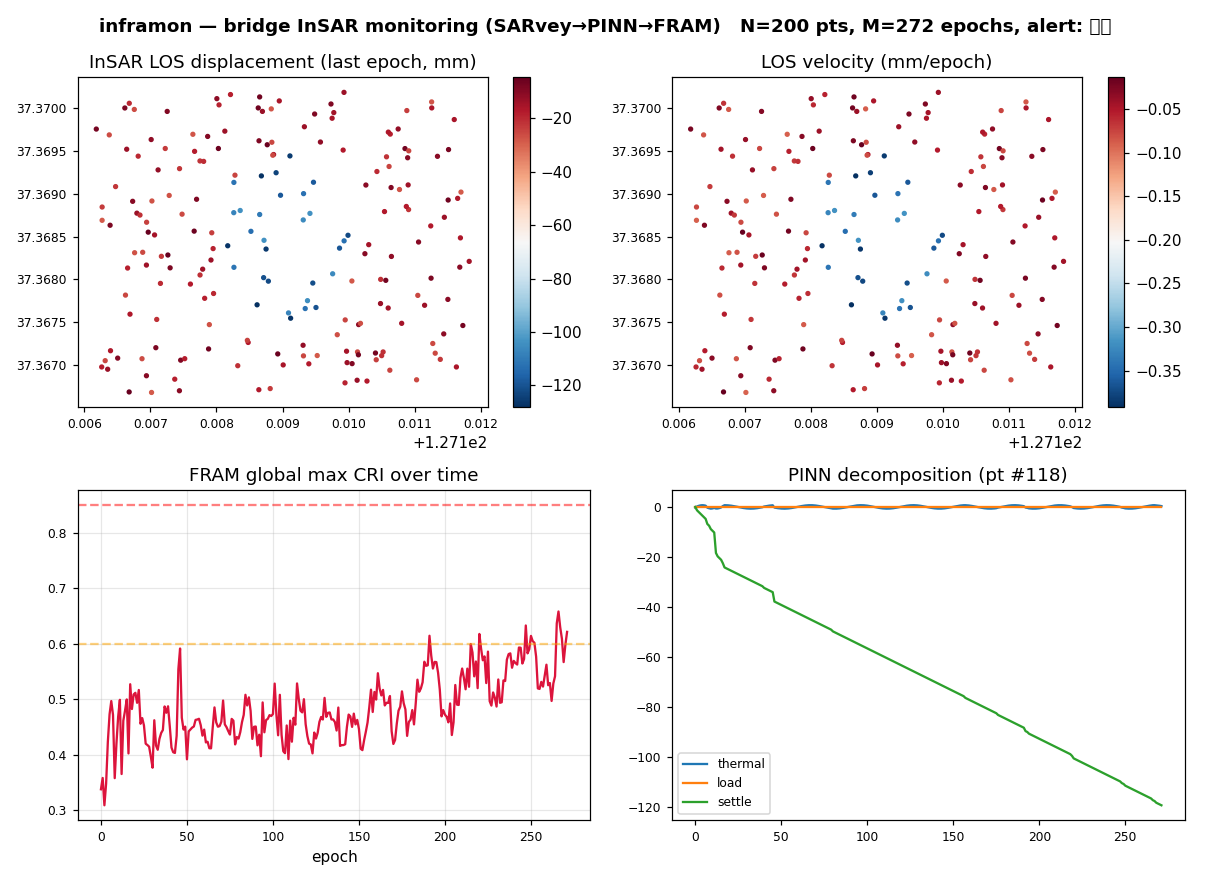
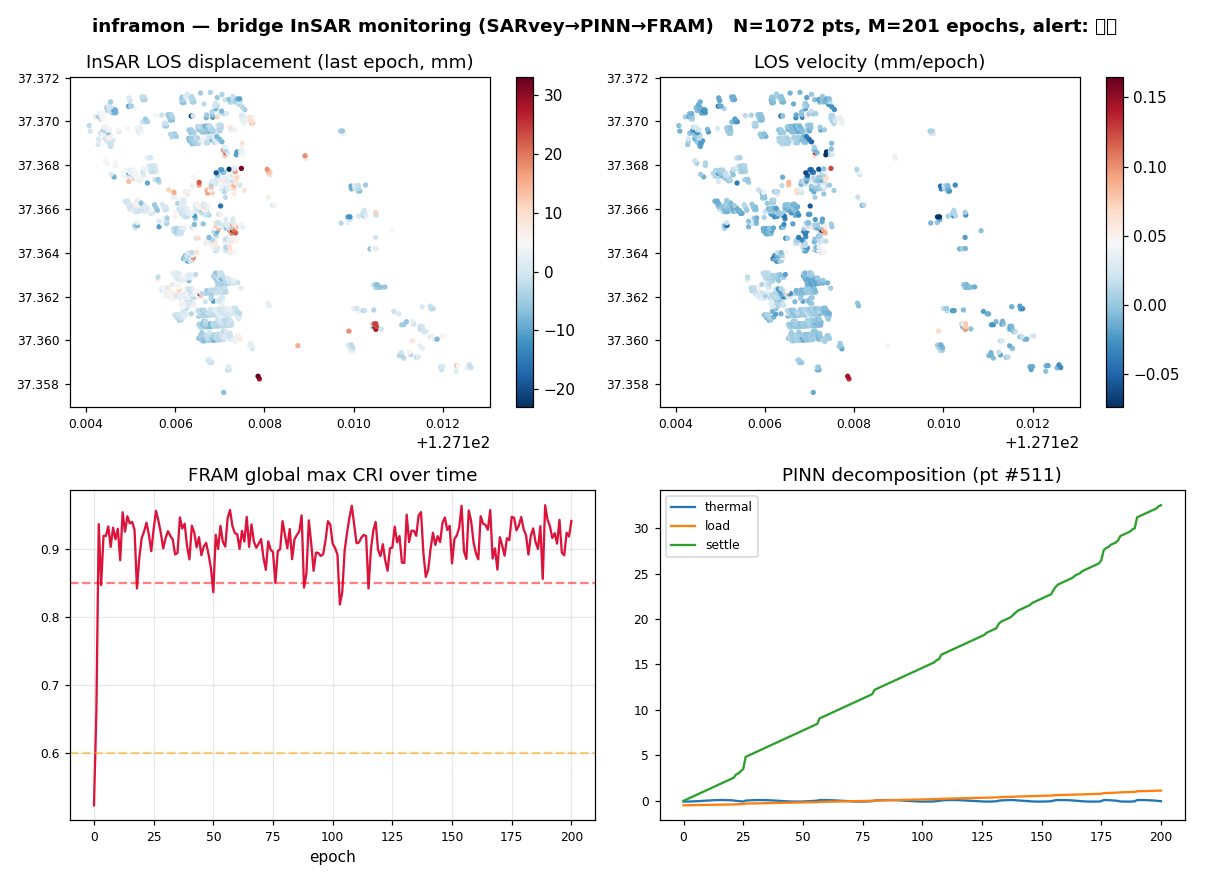
risk map 을 OpenStreetMap 베이스맵 위에 표시 (contextily)
- demo GIF·velocity·overview 를 OSM 타일 위 위험점으로 재생성 → 어디가 위험한지 지리적으로 표시
- GIF 제목/캡션 명확화(FRAM collapse prob. on OSM, 검증된 진단 아님 명시)
- 좌표 4326→3857 재투영 + contextily OSM Mapnik

diff --git a/docs/index.html b/docs/index.html
@@ -64,8 +64,10 @@
   <section>
     <h2>미리보기</h2>
     <p class="mut">정자교 실 Sentinel-1 데이터를 다운로드→ISCE2 코레지→MiaplPy→SARvey→PINN→FRAM 으로 처리한 실제 산출.</p>
-    <img class="demo" src="img/demo.gif" alt="위험 시간변화 데모">
-    <img class="demo" src="img/overview.png" alt="결과 요약: 변위·속도·CRI·PINN 성분분해">
+    <img class="demo" src="img/demo.gif" alt="OSM 지도 위 FRAM 붕괴확률 위험맵(시간 애니메이션)">
+    <p class="mut">FRAM 붕괴확률(isotonic)을 <b>OpenStreetMap 지도 위</b> 측정점별로 표시, 2017–2025 시간 애니메이션(🟢낮음→🔴높음). FRAM 산출값이며 검증된 진단 아님.</p>
+    <img class="demo" src="img/velocity_map.png" alt="OSM 지도 위 LOS 속도">
+    <img class="demo" src="img/overview.png" alt="결과 요약">
   </section>
 
   <section>

diff --git a/scripts/make_readme_media.py b/scripts/make_readme_media.py
@@ -28,6 +28,26 @@ lon, lat = xyz[:, 0], xyz[:, 1]
 N, M = los.shape
 level = fm.get("warning", {}).get("level", "-")
 
+# OSM 베이스맵용: 경위도(4326) → 웹메르카토르(3857)
+import contextily as ctx
+from pyproj import Transformer
+_tf = Transformer.from_crs("EPSG:4326", "EPSG:3857", always_xy=True)
+mx, my = _tf.transform(lon, lat)
+_padx = (mx.max() - mx.min()) * 0.18 + 60
+_pady = (my.max() - my.min()) * 0.18 + 60
+
+
+def _basemap(ax):
+    """현재 축(3857 좌표)에 OSM 타일을 깐다. 실패(오프라인)해도 무시."""
+    ax.set_xlim(mx.min() - _padx, mx.max() + _padx)
+    ax.set_ylim(my.min() - _pady, my.max() + _pady)
+    try:
+        ctx.add_basemap(ax, source=ctx.providers.OpenStreetMap.Mapnik, crs="EPSG:3857",
+                        attribution_size=5)
+    except Exception as e:  # noqa: BLE001
+        print("basemap 실패(오프라인?):", e)
+    ax.set_xticks([]); ax.set_yticks([])
+
 # ── overview 2x2 ──
 fig, ax = plt.subplots(2, 2, figsize=(11, 8))
 fig.suptitle(f"inframon — bridge InSAR monitoring (SARvey→PINN→FRAM)   N={N} pts, M={M} epochs, "
@@ -52,27 +72,32 @@ fig.tight_layout()
 fig.savefig(f"{OUT}/overview.png", dpi=110); plt.close(fig)
 print(f"wrote {OUT}/overview.png")
 
-# ── velocity map ──
-fig, a = plt.subplots(figsize=(7, 5))
-sc = a.scatter(lon, lat, c=vel, cmap="RdBu_r", s=10)
-a.set_title("inframon — LOS velocity map (bridge PS/DS points)")
-a.set_xlabel("lon"); a.set_ylabel("lat"); fig.colorbar(sc, label="mm/epoch")
-fig.tight_layout(); fig.savefig(f"{OUT}/velocity_map.png", dpi=110); plt.close(fig)
+# ── velocity map (OSM 베이스맵 위) ──
+fig, a = plt.subplots(figsize=(7, 6))
+sc = a.scatter(mx, my, c=vel, cmap="RdBu_r", s=14, edgecolor="k", linewidth=.2, zorder=3)
+_basemap(a)
+a.set_title("inframon — LOS velocity on OpenStreetMap (Jeongja Br.)")
+fig.colorbar(sc, ax=a, label="LOS velocity (mm/epoch)", shrink=.8)
+fig.tight_layout(); fig.savefig(f"{OUT}/velocity_map.png", dpi=120); plt.close(fig)
 print(f"wrote {OUT}/velocity_map.png")
 
-# ── demo GIF: risk(CRI or calibrated) over time ──
+# ── demo GIF: FRAM 붕괴확률(또는 CRI) 시공간 지도 ──
 risk = cal if cal is not None else cri
+metric = "collapse prob. (isotonic)" if cal is not None else "CRI"
 frames = list(range(0, M, max(1, M // 30)))
-fig, a = plt.subplots(figsize=(6, 5))
-sc = a.scatter(lon, lat, c=risk[:, 0], cmap="RdYlGn_r", vmin=0, vmax=1, s=12)
-cb = fig.colorbar(sc, label="collapse prob." if cal is not None else "CRI")
-a.set_xlabel("lon"); a.set_ylabel("lat")
+fig, a = plt.subplots(figsize=(6.8, 6.0))
+sc = a.scatter(mx, my, c=risk[:, 0], cmap="RdYlGn_r", vmin=0, vmax=1, s=16,
+               edgecolor="k", linewidth=.2, zorder=3)
+_basemap(a)                                    # OSM 타일 (어디가 위험인지 지도로)
+fig.colorbar(sc, ax=a, label=f"FRAM {metric} · 0=safe→1=high", shrink=.8)
 ttl = a.set_title("")
+fig.text(0.5, 0.015, "risk per InSAR point on OpenStreetMap · FRAM output (not a validated diagnosis)",
+         ha="center", fontsize=8, color="gray")
 
 
 def _update(k):
     sc.set_array(risk[:, k])
-    ttl.set_text(f"inframon risk map — epoch {k+1}/{M}")
+    ttl.set_text(f"inframon — FRAM {metric} · epoch {k+1}/{M} (Jeongja Br.)")
     return sc, ttl
 
 

diff --git a/README.md b/README.md
@@ -12,9 +12,12 @@
 > Outputs are pipeline results, **not** validated diagnoses — do not use for operational safety decisions. ·
 > 전 파이프라인·해석해 검증은 실증됨, 현장·상용FEM·실 붕괴라벨 검증은 미수행 — **실무 안전 판정용 아님.**
 
-![Risk over time (demo)](docs/img/demo.gif)
+![FRAM collapse-probability risk map on OpenStreetMap (animated)](docs/img/demo.gif)
 
-![Result overview](docs/img/overview.png)
+*FRAM collapse-probability (isotonic) per InSAR point, **on an OpenStreetMap basemap**, animated over
+2017–2025. 🟢 low → 🔴 high. · OSM 지도 위 측정점별 FRAM 붕괴확률의 시간 변화(2017–2025). FRAM 산출값이며 검증된 진단이 아님.*
+
+![Result overview + LOS velocity on OpenStreetMap](docs/img/overview.png)
 
 ![Dashboard — FRAM](docs/img/dashboard_fram.png)
 ![Dashboard — PINN](docs/img/dashboard_pinn.png)